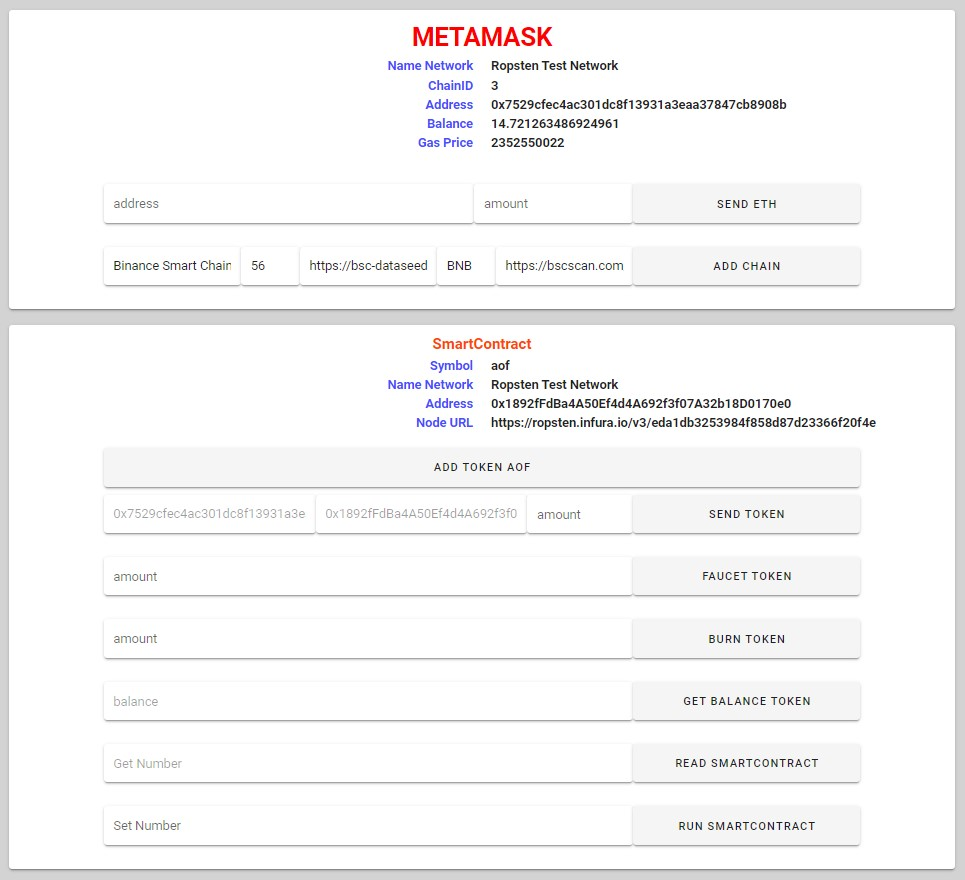
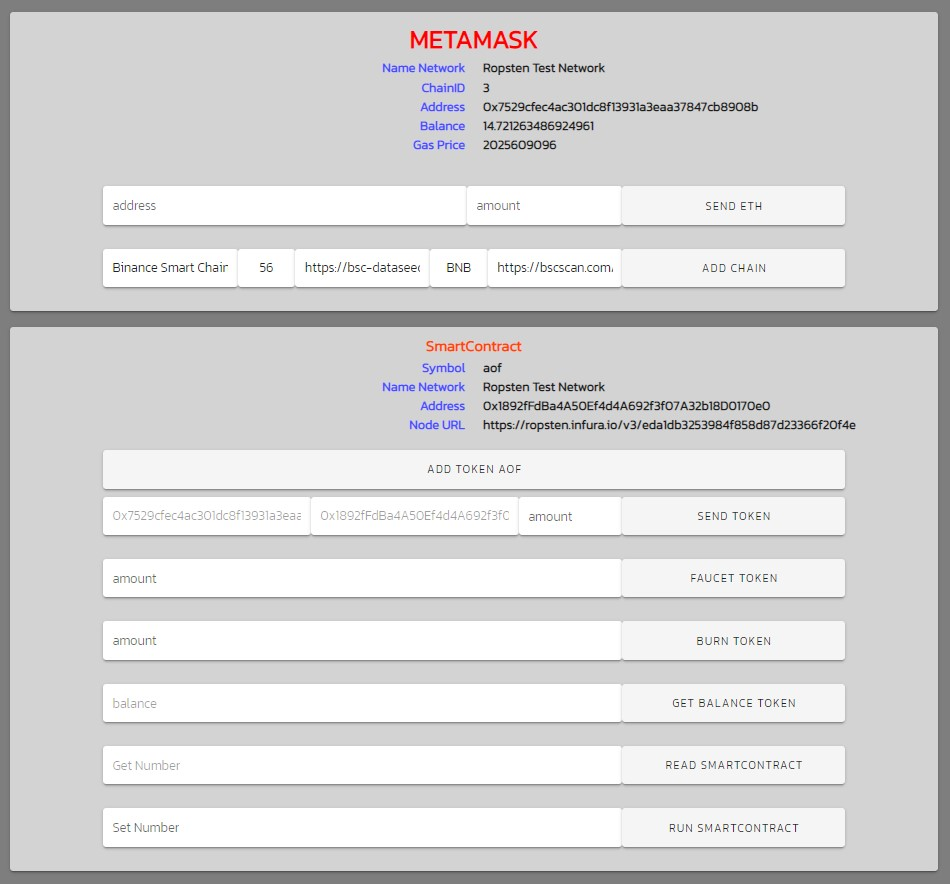
Add files via upload

diff --git a/Metamask.html b/Metamask.html
@@ -11,8 +11,8 @@
 <body>
 <div id="app">
   <v-app>
-    <v-main style="background-color: #D3D3D3;">
-      <v-card style="width: 80%; margin: 20px auto auto auto;">
+    <v-main style="background-color: #7E7E7E;">
+      <v-card style="width: 80%; margin: 20px auto auto auto; background-color:#D3D3D3;">
         <h1 style="color:red; text-align: center; padding-top: 10px;">METAMASK</h1>
         <div style="display: flex; padding-bottom: 20px;">
           <div style="width: 100%; text-align: end;">
@@ -33,33 +33,28 @@
         </div>
         <div style="display: flex; width: 80%; margin: 20px auto auto auto;">
           <v-text-field style="width: 70%;" label="address" v-model="metamask.sendETH.address" solo></v-text-field>
-          <v-text-field style="width: 30%;" label="amount" v-model="metamask.sendETH.amount" solo></v-text-field>
+          <v-text-field type="number" style="width: 30%;" label="amount" v-model="metamask.sendETH.amount" solo></v-text-field>
           <v-btn style="width: 30%; height: 48px;" @click="SendETH()">Send ETH</v-btn>
         </div>
   
         <div style="display: flex; width: 80%; margin: 0px auto auto auto;">
           <v-text-field style="width: 70%;" label="chain name" v-model="metamask.addChain.chainName" solo></v-text-field>
-          <v-text-field style="width: 30%;" label="chain id" v-model="metamask.addChain.chainId" solo></v-text-field>
+          <v-text-field type="number" style="width: 30%;" label="chain id" v-model="metamask.addChain.chainId" solo></v-text-field>
           <v-text-field style="width: 70%;" label="chain rpc" v-model="metamask.addChain.rpc" solo></v-text-field>
           <v-text-field style="width: 30%;" label="symbol" v-model="metamask.addChain.symbol" solo></v-text-field>
           <v-text-field style="width: 70%;" label="block explorer url" v-model="metamask.addChain.blockExplorerUrls" solo></v-text-field>
           <v-btn style="width: 30%; height: 48px;" @click="AddChain()">Add Chain</v-btn>
         </div>
       </v-card>
-
-
       
 
-      
-
-      <v-card style="width: 80%; margin: 20px auto 20px auto;">
+      <v-card style="width: 80%; margin: 20px auto 20px auto; background-color:#D3D3D3;">
         <h3 style="color:orangered; text-align: center; padding-top: 10px;">SmartContract</h3>
         <div style="display: flex; padding-bottom: 20px;">
           <div style="width: 100%; text-align: end;">
             <h4 style="color:#4A4DFF;">Symbol</h4>
             <h4 style="color:#4A4DFF;">Name Network</h4>
             <h4 style="color:#4A4DFF;">Address</h4>
-            <!-- <h4 style="color:#4A4DFF;">Balance</h4> -->
             <h4 style="color:#4A4DFF;">Node URL</h4>
           </div>
           <div style="width: 5px; margin: 10px;"></div>
@@ -67,7 +62,6 @@
             <h4>{{contract.symbol}}</h4>
             <h4>{{contract.nameNetwork}}</h4>
             <h4>{{contract.address}}</h4>
-            <!-- <h4>{{contract.balance}}</h4> -->
             <h4>{{contract.nodeurl}}</h4>
           </div>
         </div>
@@ -79,15 +73,15 @@
         <div style="display: flex; width: 80%; margin: 10px auto auto auto;">
           <v-text-field style="width: 40%;" label="address" v-model="metamask.address" solo disabled></v-text-field>
           <v-text-field style="width: 40%;" label="token address" v-model="contract.address" solo disabled></v-text-field>
-          <v-text-field style="width: 20%;" label="amount" v-model="contract.amount" solo></v-text-field>
+          <v-text-field type="number" style="width: 20%;" label="amount" v-model="contract.amount" solo></v-text-field>
           <v-btn style="width: 30%; height: 48px;" @click="SendToken()">Send Token</v-btn>
         </div>
         <div style="display: flex; width: 80%; margin: 0px auto auto auto;">
-          <v-text-field style="width: 100%;" label="amount" v-model="contract.faucet" solo></v-text-field>
+          <v-text-field type="number" style="width: 100%;" label="amount" v-model="contract.faucet" solo></v-text-field>
           <v-btn style="width: 30%; height: 48px;" @click="FaucetToken()">Faucet Token</v-btn>
         </div>
         <div style="display: flex; width: 80%; margin: 0px auto auto auto;">
-          <v-text-field style="width: 100%;" label="amount" v-model="contract.burn" solo></v-text-field>
+          <v-text-field type="number" style="width: 100%;" label="amount" v-model="contract.burn" solo></v-text-field>
           <v-btn style="width: 30%; height: 48px;" @click="BurnToken()">Burn Token</v-btn>
         </div>
         <div style="display: flex; width: 80%; margin: 0px auto auto auto;">
@@ -99,7 +93,7 @@
           <v-btn style="width: 30%; height: 48px;" @click="ReadSmartContract()">Read SmartContract</v-btn>
         </div>
         <div style="display: flex; width: 80%; margin: 0px auto auto auto;">
-          <v-text-field style="width: 100%;" label="Set Number" v-model="contract.setdata" solo></v-text-field>
+          <v-text-field type="number" style="width: 100%;" label="Set Number" v-model="contract.setdata" solo></v-text-field>
           <v-btn style="width: 30%; height: 48px;" @click="RunSmartContract()">Run SmartContract</v-btn>
         </div>
       </v-card>
@@ -182,6 +176,31 @@
     </v-main>
   </v-app>
 </div>
+
+<style scoped>
+  /* Chrome, Safari, Edge, Opera */
+  input::-webkit-outer-spin-button,
+  input::-webkit-inner-spin-button {
+    -webkit-appearance: none;
+    margin: 0;
+  }
+
+  /* Firefox */
+  input[type=number] {
+    -moz-appearance: textfield;
+  }
+
+  h1, h2, h3, h4, h5, p, label, span{
+    font-family: "Kanit", sans-serif;
+  }
+
+  input{
+    text-align:center;
+    font-family: "Kanit", sans-serif;
+  }
+</style>
+
+
 <script src="https://cdn.jsdelivr.net/npm/vue@2.x/dist/vue.js"></script>
 <script src="https://cdn.jsdelivr.net/npm/vuetify@2.x/dist/vuetify.js"></script>
 <script src="https://cdn.jsdelivr.net/npm/axios/dist/axios.min.js"></script>
@@ -251,6 +270,9 @@
         const web3 = new Web3(window.web3.currentProvider);
         this.smratContract = new web3.eth.Contract(this.contract.abi,this.contract.address)
         this.GetSymbol()
+
+
+        setInterval(()=>{ this.Login(); }, 1000);
         
       },
       methods: {
@@ -277,16 +299,15 @@
         },
         Login(){
           ethereum.request({ method: 'eth_requestAccounts' }).then((res)=>{
-            console.log("Address : ",res)
-            this.GetAddress()
+            // console.log("Address : ",res)
+            this.metamask.address = res[0]
             this.GetGasPrice()
+            this.GetBalance(this.metamask.address)
           });
         },
         GetAddress(){
           ethereum.request({ method: 'eth_accounts' }).then((res)=>{
             console.log("Address : ",res)
-            this.metamask.address = res[0]
-            this.GetBalance(this.metamask.address)
           })
         },
         GetGasPrice(){
@@ -295,7 +316,7 @@
             "params":[],
             "id":73
           }).then((res)=>{
-            console.log("GasPrice : ",res)
+            // console.log("GasPrice : ",res)
             this.metamask.gasPrice = parseInt(res)
           });
         },
@@ -307,7 +328,7 @@
                       "latest"
                     ]
           }).then((res)=>{
-            console.log("Balance ETH : ",res)
+            // console.log("Balance ETH : ",res)
             this.metamask.balance = parseInt(res)/10**18
           })
         },
